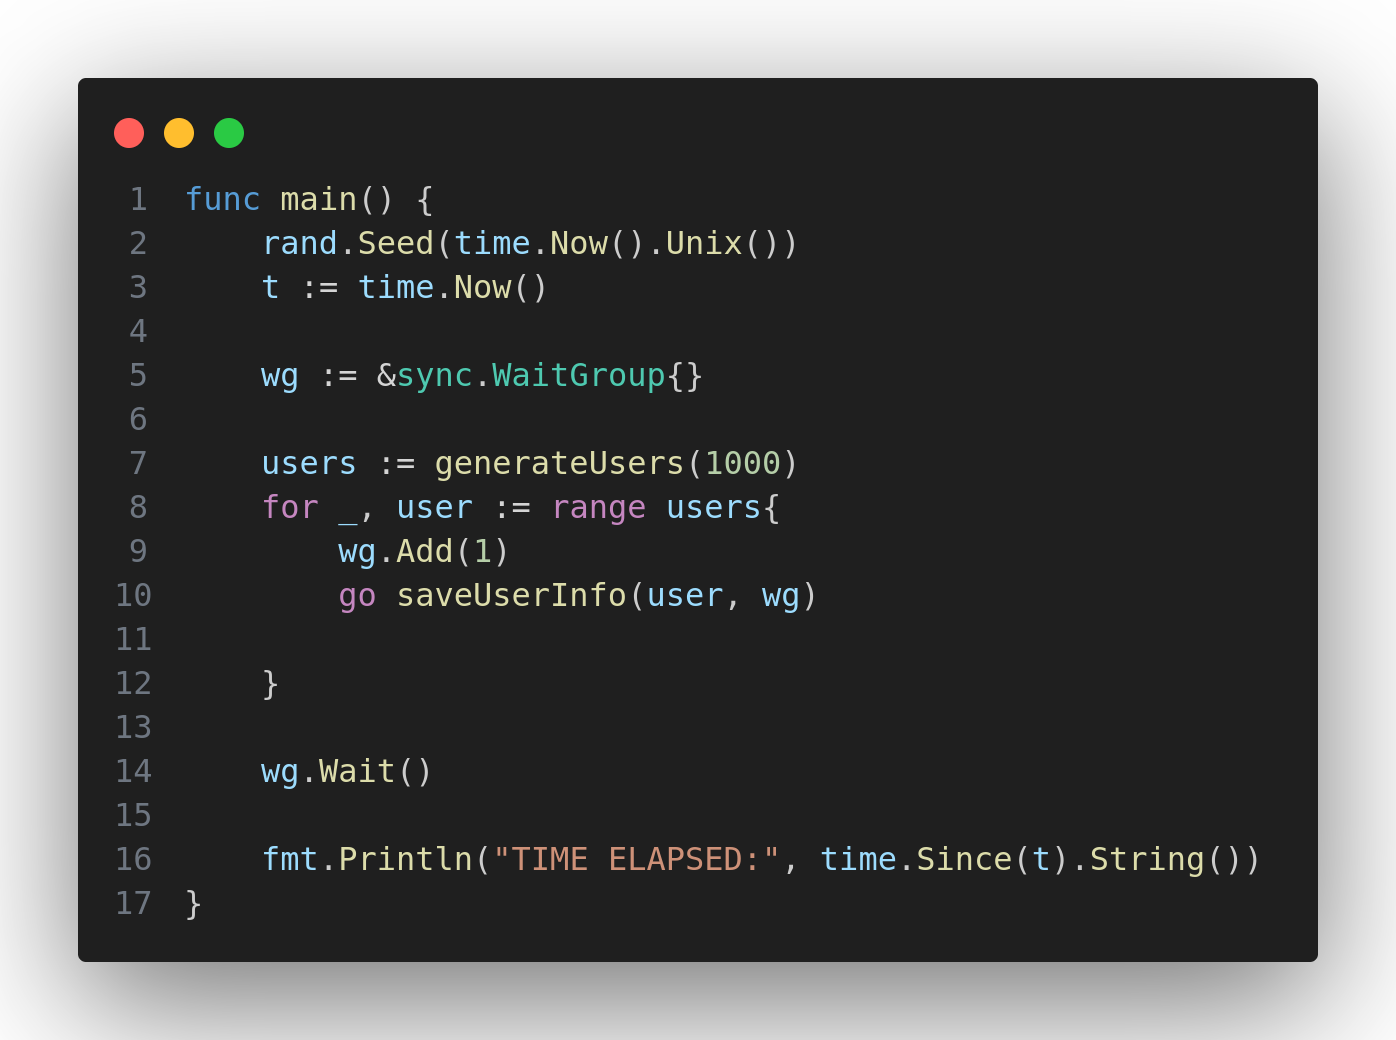
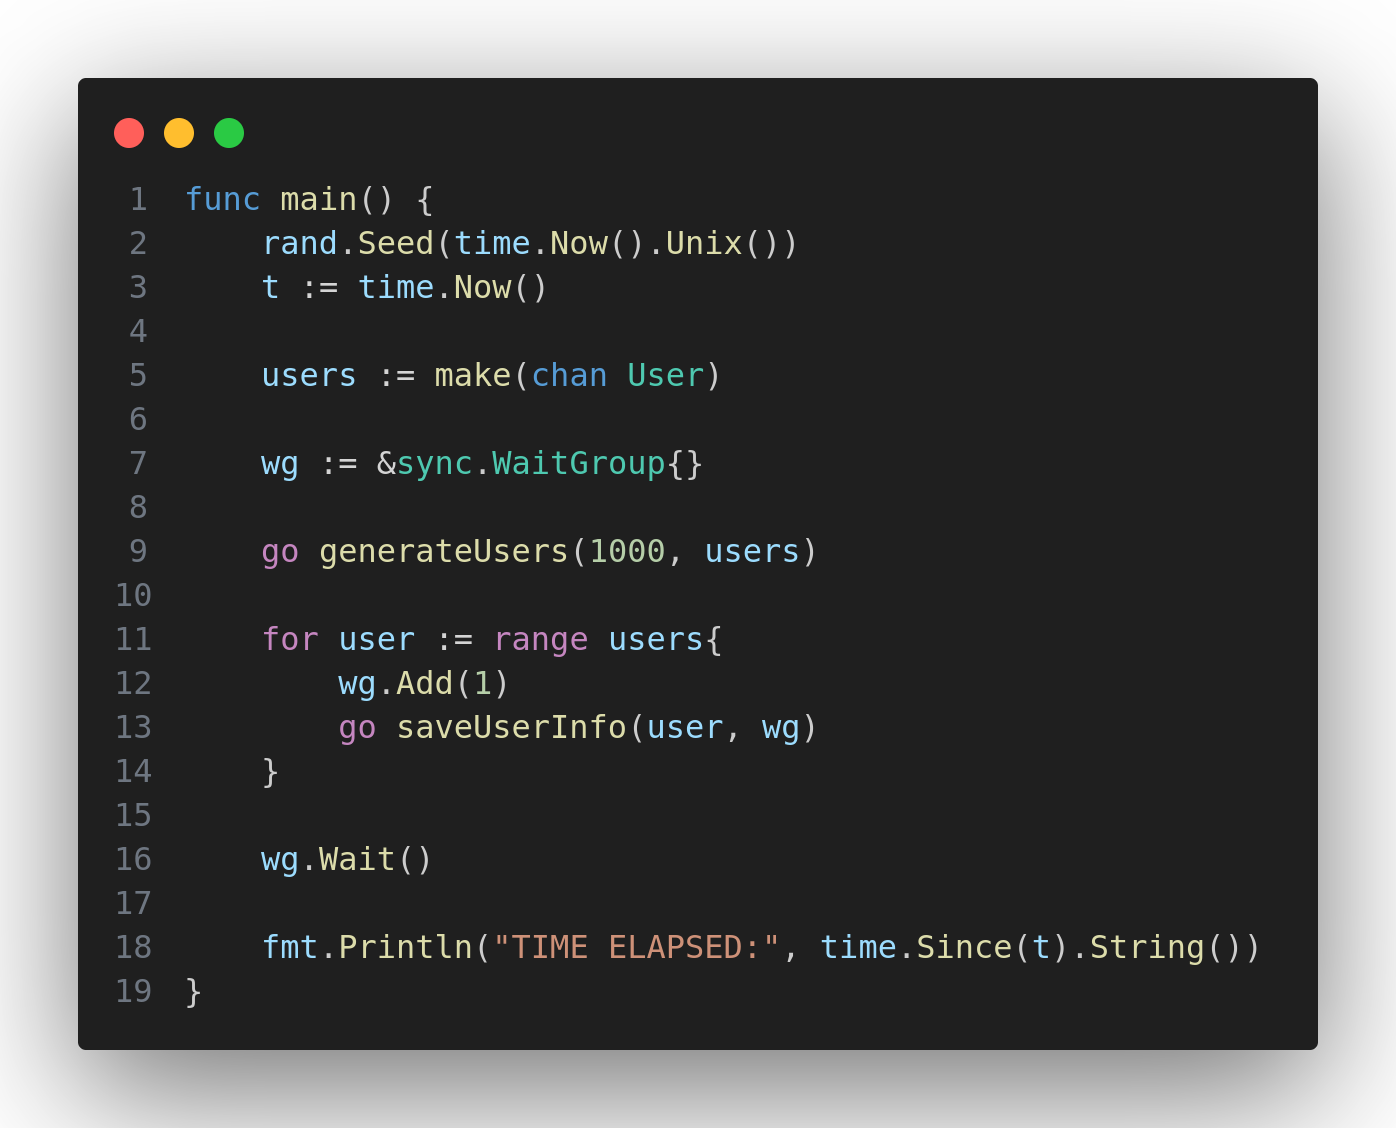
add chanel

diff --git a/main.go b/main.go
@@ -44,13 +44,15 @@ func main() {
 	rand.Seed(time.Now().Unix())
 	t := time.Now()
 
+	users := make(chan User)
+
 	wg := &sync.WaitGroup{}
 
-	users := generateUsers(1000)
-	for _, user := range users{
+	go generateUsers(1000, users)
+
+	for user := range users{
 		wg.Add(1)
 		go saveUserInfo(user, wg)	
-		
 	}
 
 	wg.Wait()
@@ -78,16 +80,16 @@ func saveUserInfo(user User, wg *sync.WaitGroup) error{
 
 }
 
-func generateUsers(count int) []User{
-	users := make([]User, count)
+func generateUsers(count int, users chan User){
+	
 	for i:=0; i<count; i++{
-		users[i] = User{
+		users <- User{
 			id: i+1,
 			email: fmt.Sprintf("user_email%d@gmail.com", i+1),
 			logs: generateLogs(rand.Intn(1000)),
 		}
 	}
-	return users
+	close(users)
 }
 
 func generateLogs(count int) []logItem {

diff --git a/README.md b/README.md
@@ -1,20 +1,22 @@
 # Запись логов пользователей в файл
 Программа производить асинхронную запись логов 1000 пользователей в файл.
 
-За счет использование goroutine в программе - запись в файл происходит в **7х быстрее**:
+За счет использование **goroutine** в программе - запись в файл происходит в **7х БЫСТРЕЕ** 
+относительно линейной программы:
 ```go
 before using the goroutine time: 14.778768872s
 after using the goroutine, time: 2.482559738s.
 ```
-
+## Характеристика ПК:
+- **Processor** Intel(R) Core(TM) i7-1065G7 CPU @ 1.30GHz, 4 core
+- **RAM** 16GB
+- **OS** Ubuntu 22.04
 
 ## Технологии 
-
 - Golang
 - библиотеки: 
     - sync
-
-
+- использование goroutine, chanel, wg
 
 ## Использование 
 - Установите последнею версию **go**
@@ -35,71 +37,18 @@ TIME ELAPSED: 2.482559738s
 ```
 
 
-## Пример файла ```logs/uid_1.txt```
+## Пример лог файла пользователя ```logs/uid_1.txt```
 ```
 ID:3 | Email: user_email3@gmail.com
 Activity Log:
-1. [delete record] at 2024-07-03 16:15:13.271304665 +0300 MSK m=+0.000224188
-2. [logged out] at 2024-07-03 16:15:13.271304733 +0300 MSK m=+0.000224256
-3. [delete record] at 2024-07-03 16:15:13.271304798 +0300 MSK m=+0.000224319
-4. [logged out] at 2024-07-03 16:15:13.27130486 +0300 MSK m=+0.000224382
+1. [logged in] at 2024-07-03 16:15:13.271304665 +0300 MSK m=+0.000224188
+2. [create record] at 2024-07-03 16:15:13.271304733 +0300 MSK m=+0.000224256
+3. [logged out] at 2024-07-03 16:15:13.271304798 +0300 MSK m=+0.000224319
+4. [logged in] at 2024-07-03 16:15:13.27130486 +0300 MSK m=+0.000224382
 5. [delete record] at 2024-07-03 16:15:13.271304924 +0300 MSK m=+0.000224446
 6. [logged out] at 2024-07-03 16:15:13.271304988 +0300 MSK m=+0.000224510
-7. [logged out] at 2024-07-03 16:15:13.271305051 +0300 MSK m=+0.000224574
-8. [delete record] at 2024-07-03 16:15:13.271305114 +0300 MSK m=+0.000224637
-9. [logged in] at 2024-07-03 16:15:13.271305178 +0300 MSK m=+0.000224700
-10. [logged out] at 2024-07-03 16:15:13.271305242 +0300 MSK m=+0.000224763
-11. [logged in] at 2024-07-03 16:15:13.271305306 +0300 MSK m=+0.000224827
-12. [logged out] at 2024-07-03 16:15:13.271305369 +0300 MSK m=+0.000224891
-13. [delete record] at 2024-07-03 16:15:13.271305433 +0300 MSK m=+0.000224956
-14. [logged out] at 2024-07-03 16:15:13.271305497 +0300 MSK m=+0.000225019
-15. [logged in] at 2024-07-03 16:15:13.271305561 +0300 MSK m=+0.000225082
-16. [delete record] at 2024-07-03 16:15:13.271305626 +0300 MSK m=+0.000225147
-17. [delete record] at 2024-07-03 16:15:13.27130569 +0300 MSK m=+0.000225210
-18. [logged in] at 2024-07-03 16:15:13.271305753 +0300 MSK m=+0.000225275
-19. [delete record] at 2024-07-03 16:15:13.271305816 +0300 MSK m=+0.000225339
-20. [logged in] at 2024-07-03 16:15:13.27130588 +0300 MSK m=+0.000225402
-21. [logged in] at 2024-07-03 16:15:13.271305943 +0300 MSK m=+0.000225464
-22. [logged out] at 2024-07-03 16:15:13.271306007 +0300 MSK m=+0.000225529
-23. [create record] at 2024-07-03 16:15:13.271306072 +0300 MSK m=+0.000225593
-24. [create record] at 2024-07-03 16:15:13.271306135 +0300 MSK m=+0.000225657
-25. [logged out] at 2024-07-03 16:15:13.2713062 +0300 MSK m=+0.000225721
-26. [logged out] at 2024-07-03 16:15:13.271306263 +0300 MSK m=+0.000225784
-27. [create record] at 2024-07-03 16:15:13.271306327 +0300 MSK m=+0.000225848
-28. [logged out] at 2024-07-03 16:15:13.271306391 +0300 MSK m=+0.000225913
-29. [logged out] at 2024-07-03 16:15:13.271306454 +0300 MSK m=+0.000225977
-30. [logged in] at 2024-07-03 16:15:13.271306518 +0300 MSK m=+0.000226041
-31. [logged out] at 2024-07-03 16:15:13.271306582 +0300 MSK m=+0.000226105
-32. [logged in] at 2024-07-03 16:15:13.271306645 +0300 MSK m=+0.000226168
-33. [delete record] at 2024-07-03 16:15:13.271306709 +0300 MSK m=+0.000226231
-34. [delete record] at 2024-07-03 16:15:13.271306773 +0300 MSK m=+0.000226295
-35. [logged in] at 2024-07-03 16:15:13.271306838 +0300 MSK m=+0.000226359
-36. [logged in] at 2024-07-03 16:15:13.271306902 +0300 MSK m=+0.000226424
-37. [delete record] at 2024-07-03 16:15:13.271306964 +0300 MSK m=+0.000226487
-38. [logged out] at 2024-07-03 16:15:13.271307029 +0300 MSK m=+0.000226552
-39. [delete record] at 2024-07-03 16:15:13.271307092 +0300 MSK m=+0.000226615
-40. [delete record] at 2024-07-03 16:15:13.271307156 +0300 MSK m=+0.000226678
-41. [delete record] at 2024-07-03 16:15:13.271307219 +0300 MSK m=+0.000226740
-42. [logged out] at 2024-07-03 16:15:13.271307284 +0300 MSK m=+0.000226805
-43. [logged in] at 2024-07-03 16:15:13.271307348 +0300 MSK m=+0.000226869
-44. [logged out] at 2024-07-03 16:15:13.271307411 +0300 MSK m=+0.000226933
-45. [create record] at 2024-07-03 16:15:13.271307476 +0300 MSK m=+0.000226997
-46. [delete record] at 2024-07-03 16:15:13.271307539 +0300 MSK m=+0.000227062
-47. [create record] at 2024-07-03 16:15:13.271307602 +0300 MSK m=+0.000227124
-48. [logged out] at 2024-07-03 16:15:13.271307666 +0300 MSK m=+0.000227189
-49. [logged out] at 2024-07-03 16:15:13.27130773 +0300 MSK m=+0.000227252
-50. [logged in] at 2024-07-03 16:15:13.271307794 +0300 MSK m=+0.000227315
-51. [create record] at 2024-07-03 16:15:13.271307858 +0300 MSK m=+0.000227380
-52. [logged in] at 2024-07-03 16:15:13.271307921 +0300 MSK m=+0.000227444
-53. [create record] at 2024-07-03 16:15:13.271307985 +0300 MSK m=+0.000227507
-54. [logged in] at 2024-07-03 16:15:13.27130805 +0300 MSK m=+0.000227571
-55. [logged out] at 2024-07-03 16:15:13.271308113 +0300 MSK m=+0.000227635
-56. [delete record] at 2024-07-03 16:15:13.271308176 +0300 MSK m=+0.000227699
-57. [logged out] at 2024-07-03 16:15:13.27130824 +0300 MSK m=+0.000227763
-58. [logged out] at 2024-07-03 16:15:13.271308303 +0300 MSK m=+0.000227826
-59. [delete record] at 2024-07-03 16:15:13.271308368 +0300 MSK m=+0.000227890
-60. [logged out] at 2024-07-03 16:15:13.271308432 +0300 MSK m=+0.000227954
-61. [logged out] at 2024-07-03 16:15:13.271308496 +0300 MSK m=+0.000228017
+ ... 
+61. [create record] at 2024-07-03 16:15:13.271308496 +0300 MSK m=+0.000228017
 
 ```
 
